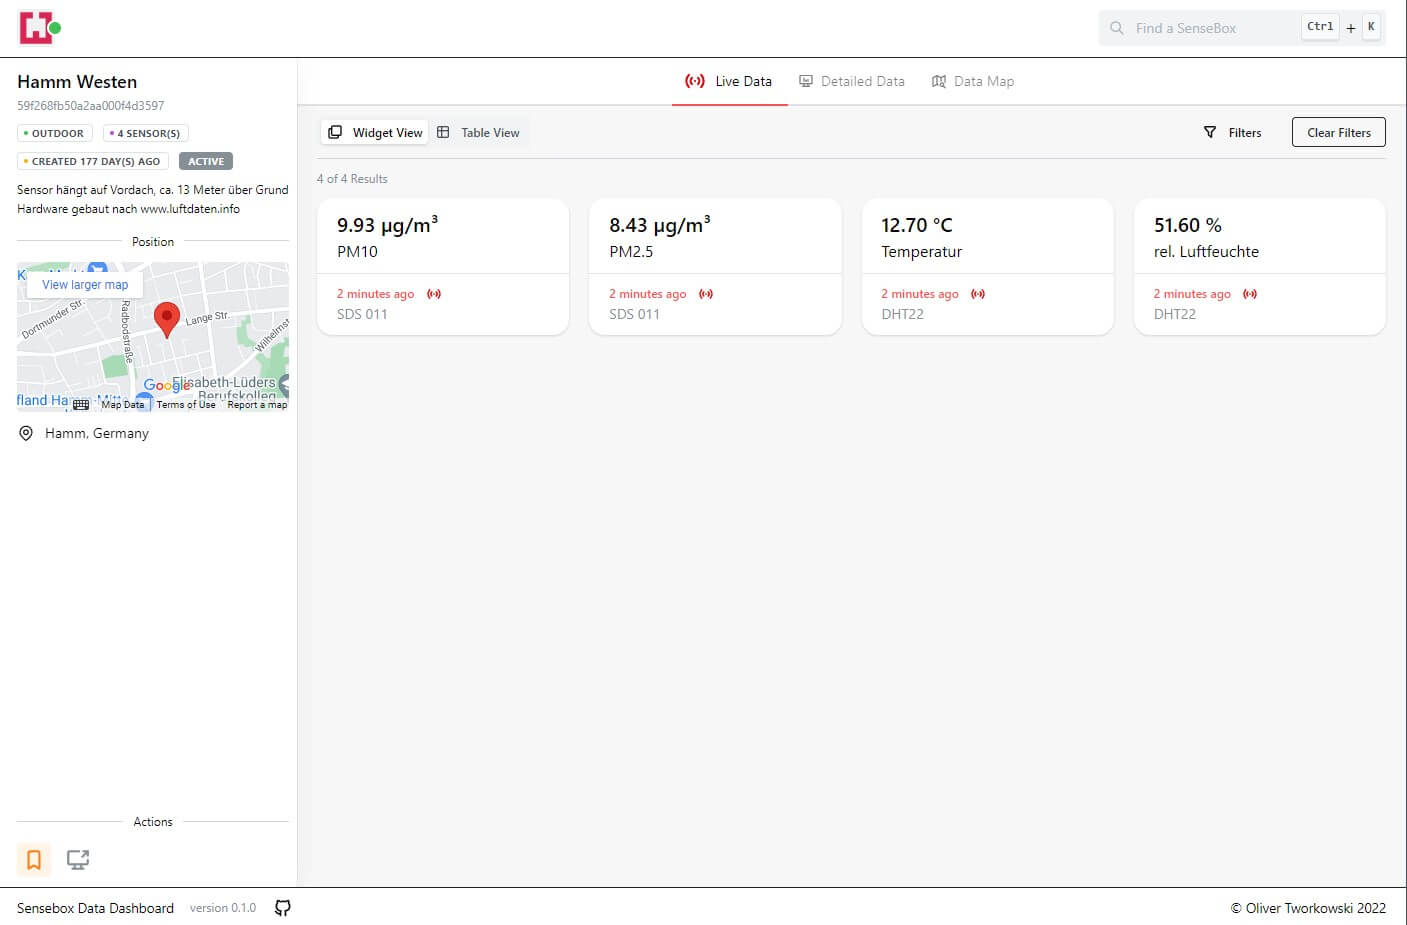
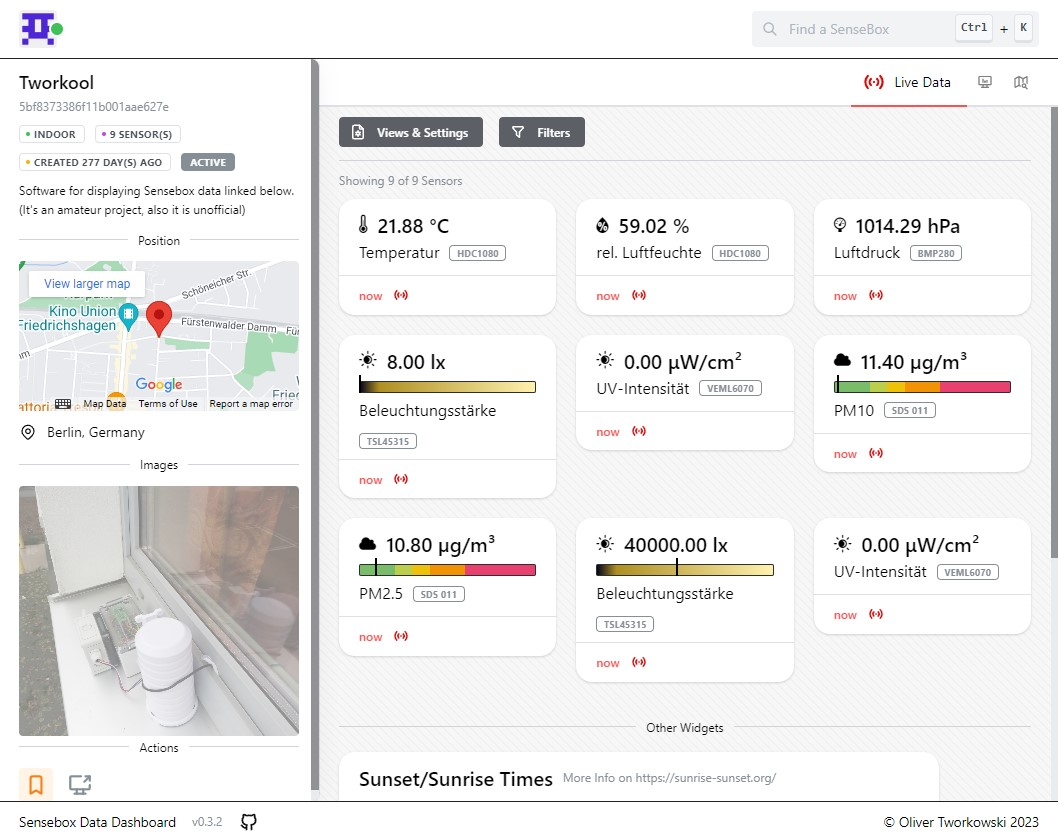
update preview image and readme

diff --git a/README.md b/README.md
@@ -2,7 +2,7 @@
 The Sensebox Data Dashboard is a analytics dashboard for data collected from Senseboxes around the world (for more info on Senseboxes [follow this link](https://sensebox.de/en/))
 ![Dashboard Live Data Preview](https://github.com/tworkool/sensebox.data.dashboard/blob/main/webapp/src/assets/content/dashboard-preview.jpg)
 The motivation behind this project is mainly to create a better approach to visualising data collected from Senseboxes. The [Opensensemap](https://opensensemap.org/) is a great native approach for doing so, but in my opinion it could be improved from many perspectives.
-If you would like to use a published version of this dashboard, please visit his link: SOON TO BE ADDED
+If you would like to use a published version of this dashboard, please visit his link: [sensebox-data-dashboard.de](sensebox-data-dashboard.de)
 #### Motivation
 One prominent feature which will be implemented in the future, is a Map visualising different sensor data from multiple Senseboxes. The main focus is the development of a user-driven dashboard for managing the overview of data.
 
